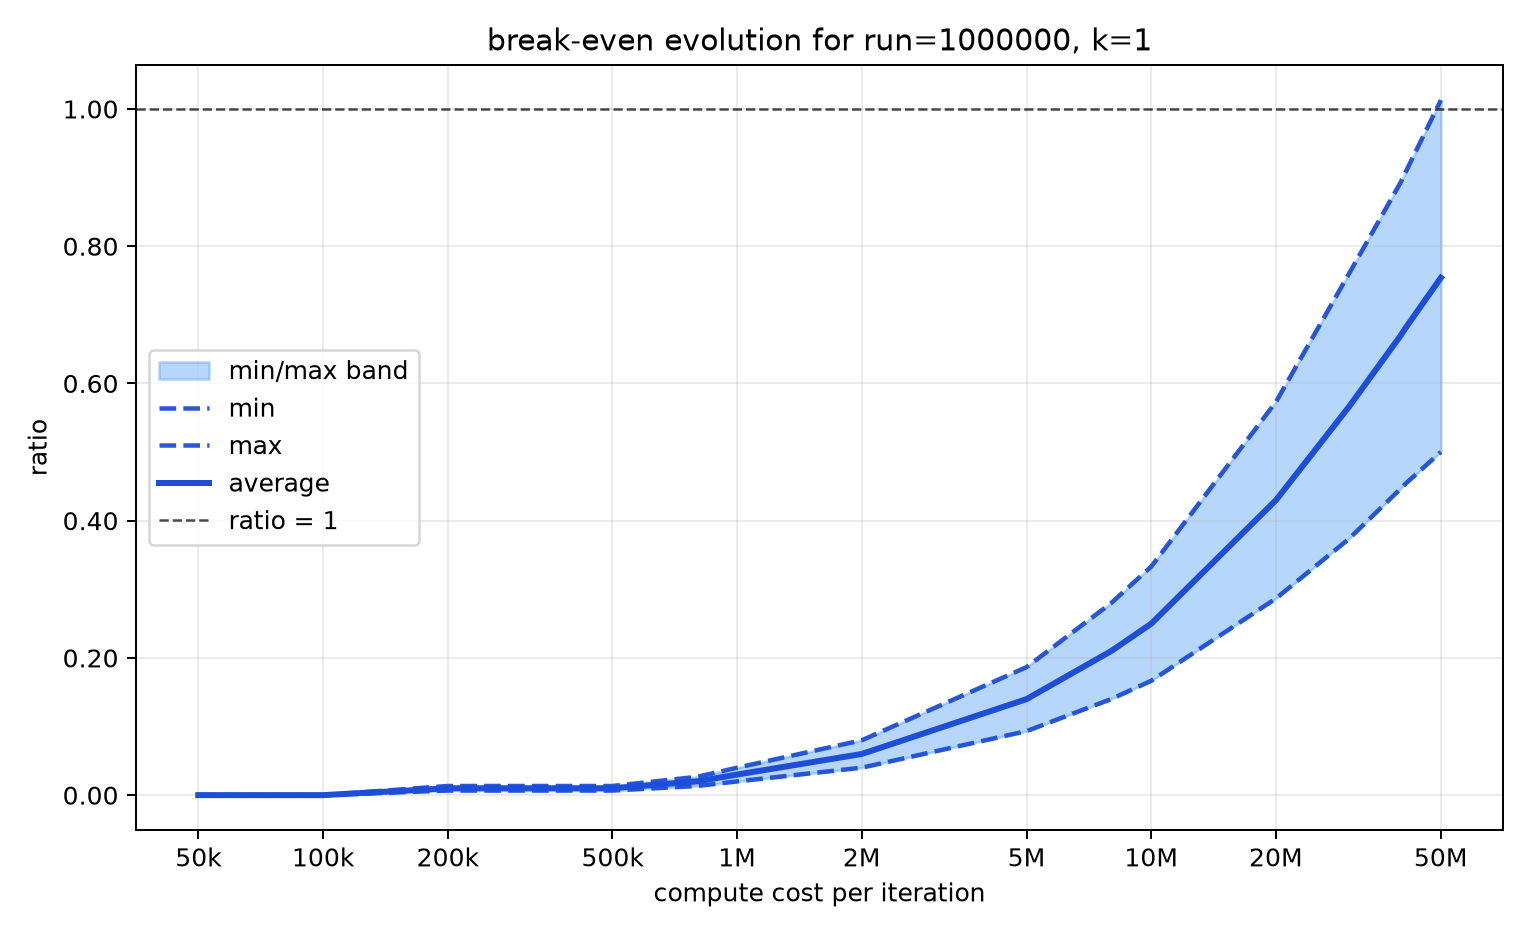
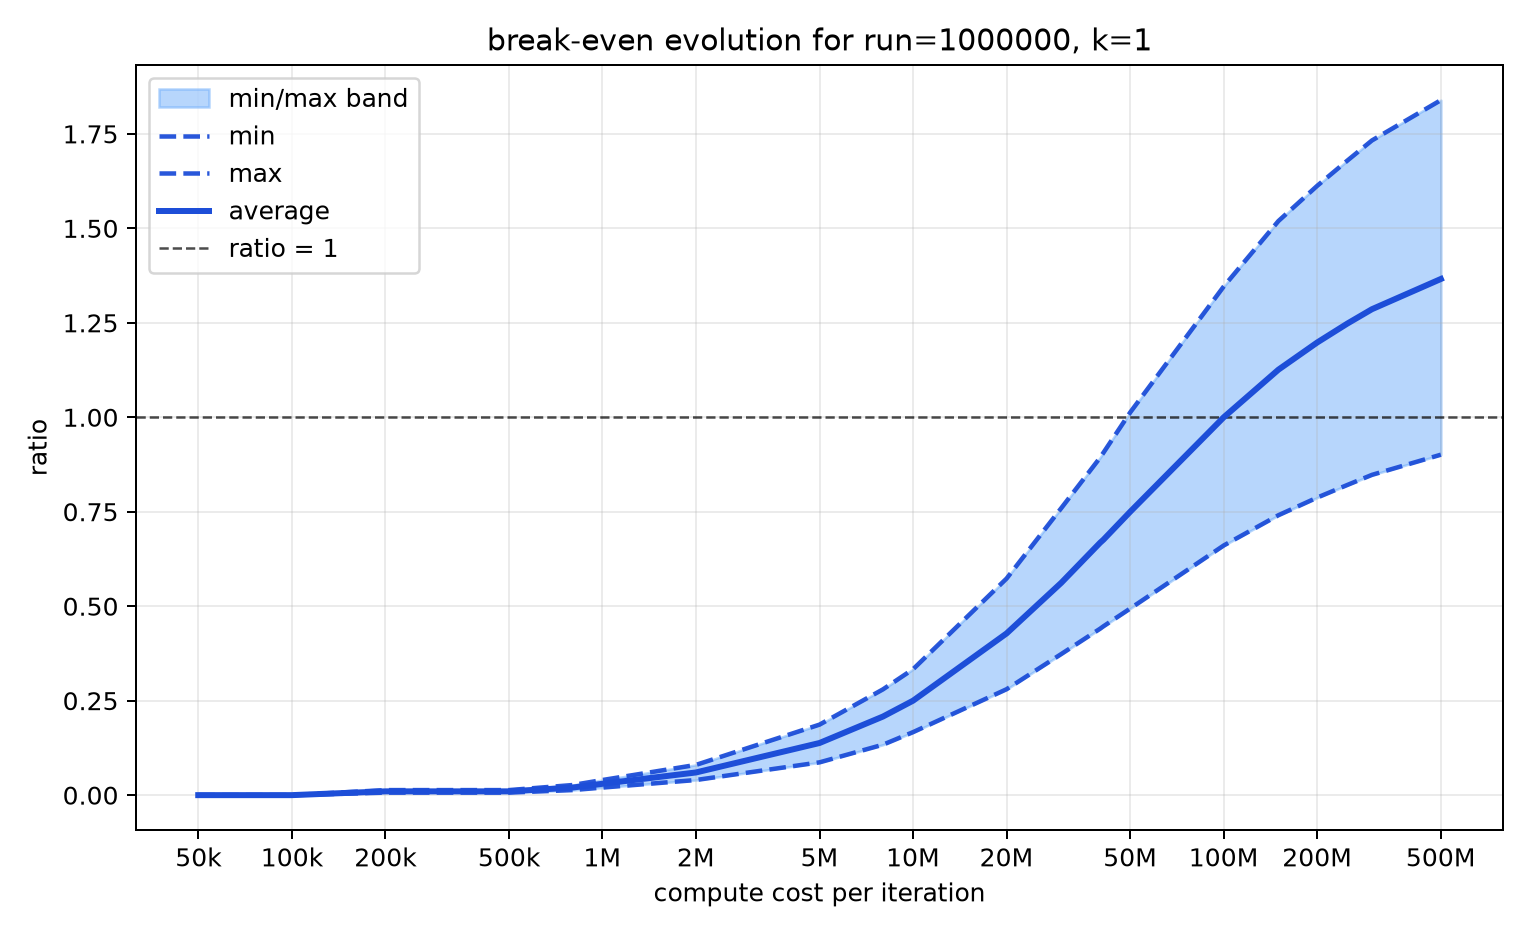
[FIX] 50m plot

diff --git a/report/main.tex b/report/main.tex
@@ -1772,6 +1772,7 @@ The enclave is made to run in discrete time, for our calculations, we will use :
     \item $C_{event}$ the total number of cycles used by the $event$ (save, load, compute, etc.) 
 \end{itemize}
 Having these variables states we can compute the theoretical cost of checkpointing compared to restartarting the enclave from scratch.
+A small nuance is that the $C_{save}$ and $C_{load}$ do not include the corresponding edge calls because of their assymetry.
 
 \begin{equation}
 C_{checkpoint} = N\cdot (C_{save} + C_{compute}) + K\cdot C_{load}
@@ -1805,7 +1806,14 @@ C_{no\_checkpoint} = C_{compute} \cdot \left(N + \frac{K \cdot N}{2}\right)
 
 \subsection{Computation threshold}
 Having the equations \ref{eq:save_total_cost} and \ref{eq:no_save_total_cost}, we can compute the threshold.
-This threshold is obtained when the ratio shown below is greater or equal to one.
+This threshold is obtained when the ratio shown below is \textbf{greater or equal} to \textbf{one}.
+\\
+
+However, the equations below are taking the \textit{expected} values (average), a single iteration of an enclave of this will \textbf{not} follow this exact rule.
+This is because of the randomness, a simple (yet more than rare) example would be that an iteration with 10 faults have all of them at the first step.
+The number of runs for $C_{no\_checkpoint}$ is then $N+K$ which is not only very much below the average but also equal to $C\_{checkpoint}$.
+The latter being strictly more expensive in cycles will perform more poorly.
+The expected behaviour for a given $K$ are discussion in Section \ref{fig:15m_threshold_k}.
 \begin{equation}
 ratio = \frac{C_{no\_checkpoint}}{C_{checkpoint}}
 \end{equation}
@@ -1822,43 +1830,52 @@ C_{compute} \cdot \left(N + \frac{K \cdot N}{2}\right) &\geq N\cdot C_{save} + N
 C_{compute} \cdot \left(N + \frac{K \cdot N}{2} - N\right) &\geq N\cdot C_{save} + K\cdot C_{load} \\[2mm]
 C_{compute} \cdot \frac{K \cdot N}{2} &\geq N\cdot C_{save} + K\cdot C_{load} \\[2mm]
 C_{compute} &\geq \frac{N\cdot C_{save} + K\cdot C_{load}}{\dfrac{K \cdot N}{2}} \\[2mm]
-C_{compute} &\geq \frac{2\,C_{save}}{K} + \frac{2\,C_{load}}{N}
 \end{align*}
+The final equation is thus:
+\begin{equation}
+C_{compute} \geq \frac{2\,C_{save}}{K} + \frac{2\,C_{load}}{N}
+\end{equation}
+This confirms that what is seen in the graphs of Section \ref{sec:rt_analysis} :
+\begin{itemize}
+    \item For $k=0$, the model can only approach, from below, the threshold ratio.
+    \item As the $C_{save}$ and $C_{load}$ are rising, the $C_{compute}$ must also go up, this translates to a plateau after the first threshold overpass.
+    \item The number of fault $K$, that is supposedly much smaller than the number of runs $N$, which is great ($\ge 10.000$) as per the goal of long running tasks, makes the $C_{load}$ weight little compared to $C_{save}$
+\end{itemize}
 Given the actual costs of the save and load cycles as shown in \ref{sub:cycle_cost}.
 We can isolate the computation needed in order to reach the threshold value.
 \\
 Assuming that we use:
 \begin{itemize}
     \item $N = 1.000.000$
-    \item $K = [0-9]$
-    \item $C_{save} = 15.000.000$ (runtime test is $[15M-20M]$)
-    \item $C_{load} = 15.000.000$
+    \item $K = 1$ the minimal number to be able to reach a threshold
+    \item $C_{save} = 15.000.000$ as the runtime test is $[15M-20M]$
+    \item $C_{load} = 15.000.000$ to better isolate the compute cost, we assume that load and save are symmetric
 \end{itemize} 
 \begin{align*}
-C_{compute} &\geq \frac{40.000.000}{K} + \frac{40.000.000}{N}\\
-C_{compute} &\geq 40.000.400
+C_{compute} &\geq \frac{2 \cdot 15.000.000}{1} + \frac{2\cdot 15.000.000}{1.000.000}\\
+C_{compute} &\geq 30.000.000 + 30
 \end{align*}
+This result is confirmed by the runtime analysis graphs (and underlying benchmarks) in Section \ref{sub:threshold}.
 
-\subsection{Cycle cost per operation}
-\label{sub:cycle_cost}
-\begin{table}
-\end{table}
+\section{Runtime Analysis}
+\label{sec:rt_analysis}
+Now that the theory is established, we will focus on the runtime benchmarks and their resulting graphs.
 
-\begin{table}
-\end{table}
+\subsection{Computation threshold}
+\label{sub:threshold}
+in order to avoid outliers and CPU inconsistency, all the tests have been made a $1000$ times, their results have been divided by the same amount.
+The following subparts are constitued of three graphs, these graphs are all representing the same output data but the cost of the the save and load ($C_{save}$, $C_{load}$).
+Our current implementation' save and load costs are ranging from $15.000.000$ and $20.000.000$ (\ref{sub:cycle_cost}), this is the value given to the first two of each graphs.
+Third one has a set cost of $50.000.000$ for both.
+The choice has been made to set them to equal values as $C_{load}$ holds less weight for our purpose of long running tasks (\ref{eq:no_save_total_cost}), avoiding unnecessary confusion.
 
-\begin{table}
-\end{table}
-
-
-\section{Experiment Analysis}
+\subsubsection{Fixed K}
 \begin{figure}[H]
         \centering
         \includegraphics[width=0.8\linewidth]{img/plots/15m_break_even_focus_run_1000000_k_1.png}
         \caption{Threshold for 1 error over a 1.000.000 runs enclave assuming a 15M cost for load and save}
         \label{fig:15m_threshold_k}
 \end{figure}
-Note that this is represents our scenario.
 
 \begin{figure}[H]
         \centering
@@ -1895,9 +1912,19 @@ Note that this is represents our scenario.
     \caption{Threshold ratio for k=$[0-9]$, over a 1.000.000 runs enclave assuming a 50M cost for load and save}
     \label{fig:50m_threshold_all_k}
 \end{figure}
-\subsubsection{Timing overhead}
-\subsubsection{Data cost}
-\subsubsection{Timing cost}
+
+\subsection{Cycle cost per operation}
+\label{sub:cycle_cost}
+This part is a recap of each possible operation of the enclave during an iteration.
+
+\begin{table}
+\end{table}
+
+\begin{table}
+\end{table}
+
+\begin{table}
+\end{table}
 
 
 \section{Cyber security}

diff --git a/examples/rewind/eapp/eapp_test.c b/examples/rewind/eapp/eapp_test.c
@@ -303,7 +303,7 @@ int run_break_even_test()
     const unsigned long million=thousand*thousand;
     const unsigned long ten_million=10*million;
 
-    save_cycles = 15*million;
+    save_cycles = 20*million;
     load_cycles = save_cycles;
     compute_cycles=50*thousand;
 
@@ -311,7 +311,8 @@ int run_break_even_test()
     const unsigned long runs_values[] = {10*thousand, hundred_thousand, million, ten_million, 5*ten_million};
     const unsigned long compute_cost_values[] = {compute_cycles, hundred_thousand, 2*hundred_thousand, 5*hundred_thousand, 8*hundred_thousand, 
                                                  million, 2*million, 5*million, 8*million,
-                                                 ten_million, 2*ten_million, 3*ten_million, 4*ten_million, 4*ten_million + million, 5*ten_million
+                                                 ten_million, 2*ten_million, 3*ten_million, 4*ten_million, 4*ten_million + million, 5*ten_million,
+                                                 10*ten_million, 15*ten_million, 20*ten_million, 25*ten_million, 30*ten_million, 50*ten_million
                                                 };
     const unsigned long avg_runs = 1000; // lowered for practicality across many run values
     unsigned long fault_positions_save[MAX_DETERMINISTIC_FAULTS];
